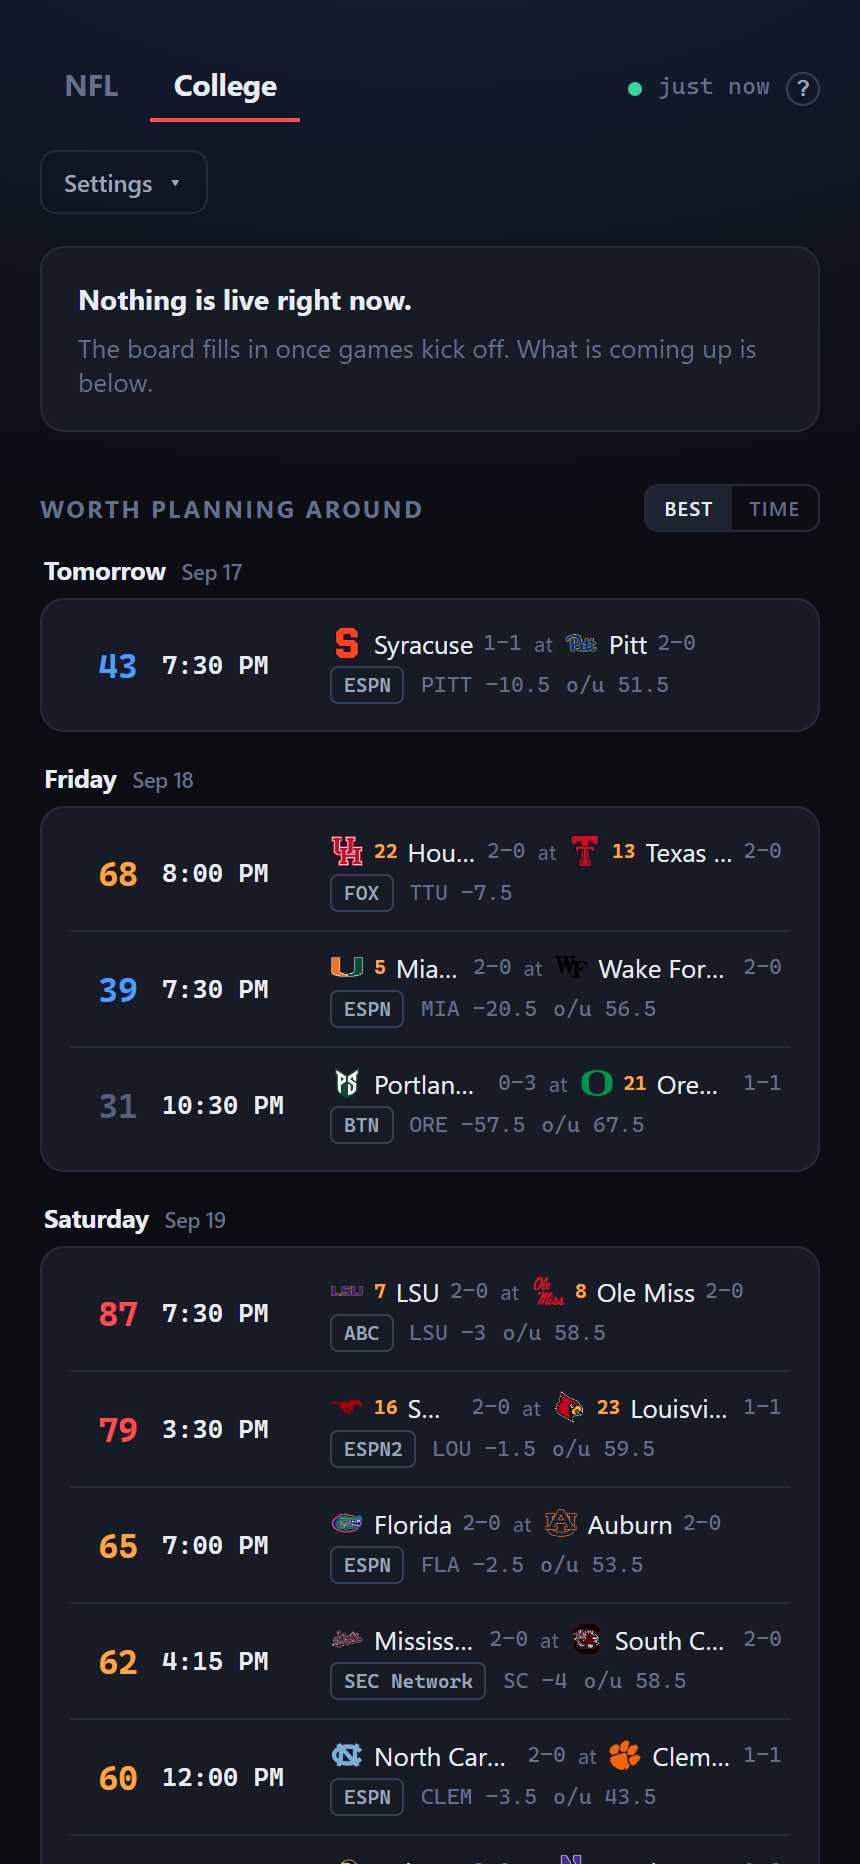
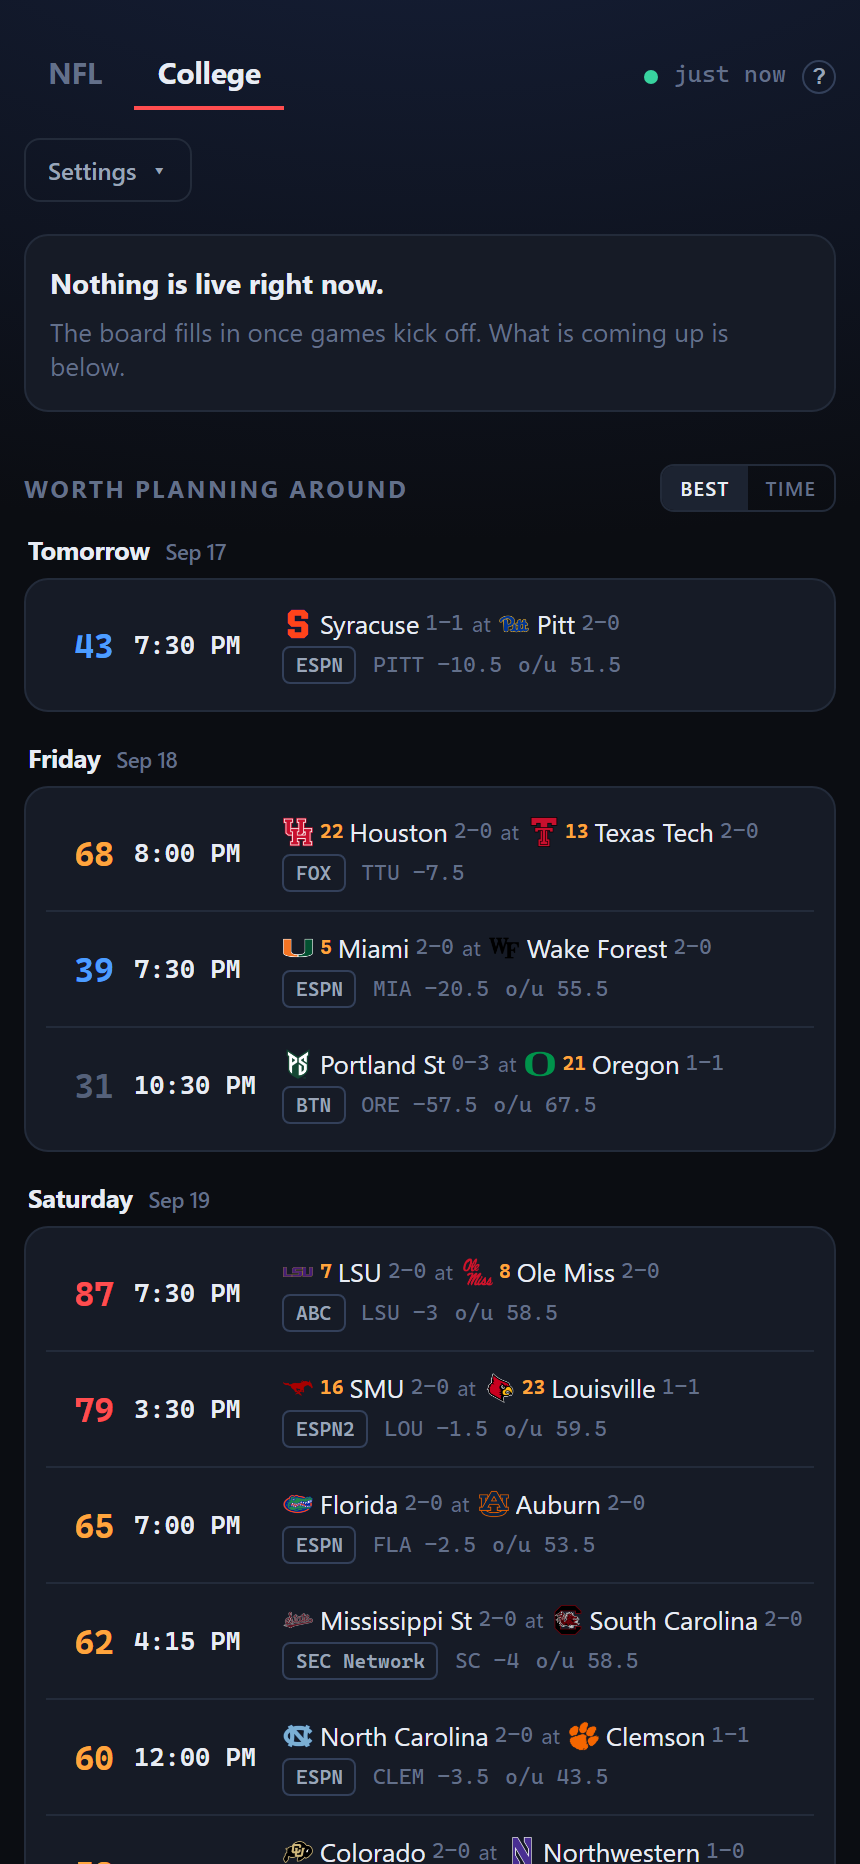
Reclaim row width so upcoming team names fit on a phone

diff --git a/src/lib/UpcomingRow.svelte b/src/lib/UpcomingRow.svelte
@@ -68,7 +68,7 @@
     contain-intrinsic-size: auto 57px;
     display: flex;
     align-items: center;
-    gap: 12px;
+    gap: 10px;
     padding: 9px 4px;
     border-bottom: 1px solid var(--border);
     font-size: 13px;
@@ -86,8 +86,10 @@
   .when {
     flex: none;
     /* Wide enough for a two-digit hour ("12:00 PM") without wrapping, and fixed
-       so kickoff times stay aligned down the column. */
-    width: 72px;
+       so kickoff times stay aligned down the column. Sized to that string and a
+       few pixels, rather than roomily: everything this column does not use comes
+       off the team names, which are the part of the row worth reading. */
+    width: 64px;
     white-space: nowrap;
   }
   .time {
@@ -109,14 +111,17 @@
   .teams {
     display: flex;
     align-items: center;
-    gap: 6px;
+    /* Tightened when records joined the row. Each side now carries a logo, a rank,
+       a name and a record, and the name is the only one of the four that can give
+       ground, so the gaps give some first. */
+    gap: 4px;
     min-width: 0;
     overflow: hidden;
   }
   .team {
     display: inline-flex;
     align-items: center;
-    gap: 5px;
+    gap: 3px;
     min-width: 0;
   }
   .record {
@@ -132,8 +137,8 @@
     text-overflow: ellipsis;
   }
   .logo {
-    width: 17px;
-    height: 17px;
+    width: 16px;
+    height: 16px;
     object-fit: contain;
     flex: none;
   }

diff --git a/src/app.css b/src/app.css
@@ -53,6 +53,19 @@ body {
   padding: 28px 20px 80px;
 }
 
+/*
+ * A narrower gutter on a phone.
+ *
+ * The gutter and the card padding are charged twice over on a small screen, and
+ * what they take comes off the only part of a row that carries meaning: on a
+ * 430px screen a third of the upcoming rows were truncating team names to fit.
+ */
+@media (max-width: 520px) {
+  #app {
+    padding: 22px 12px 80px;
+  }
+}
+
 h1, h2, h3 {
   margin: 0;
   font-weight: 650;

diff --git a/src/App.svelte b/src/App.svelte
@@ -997,6 +997,14 @@
   .panel.tight {
     padding: 4px 14px;
   }
+  @media (max-width: 520px) {
+    .panel {
+      padding: 14px 12px;
+    }
+    .panel.tight {
+      padding: 4px 10px;
+    }
+  }
   .show-all {
     display: block;
     width: 100%;
